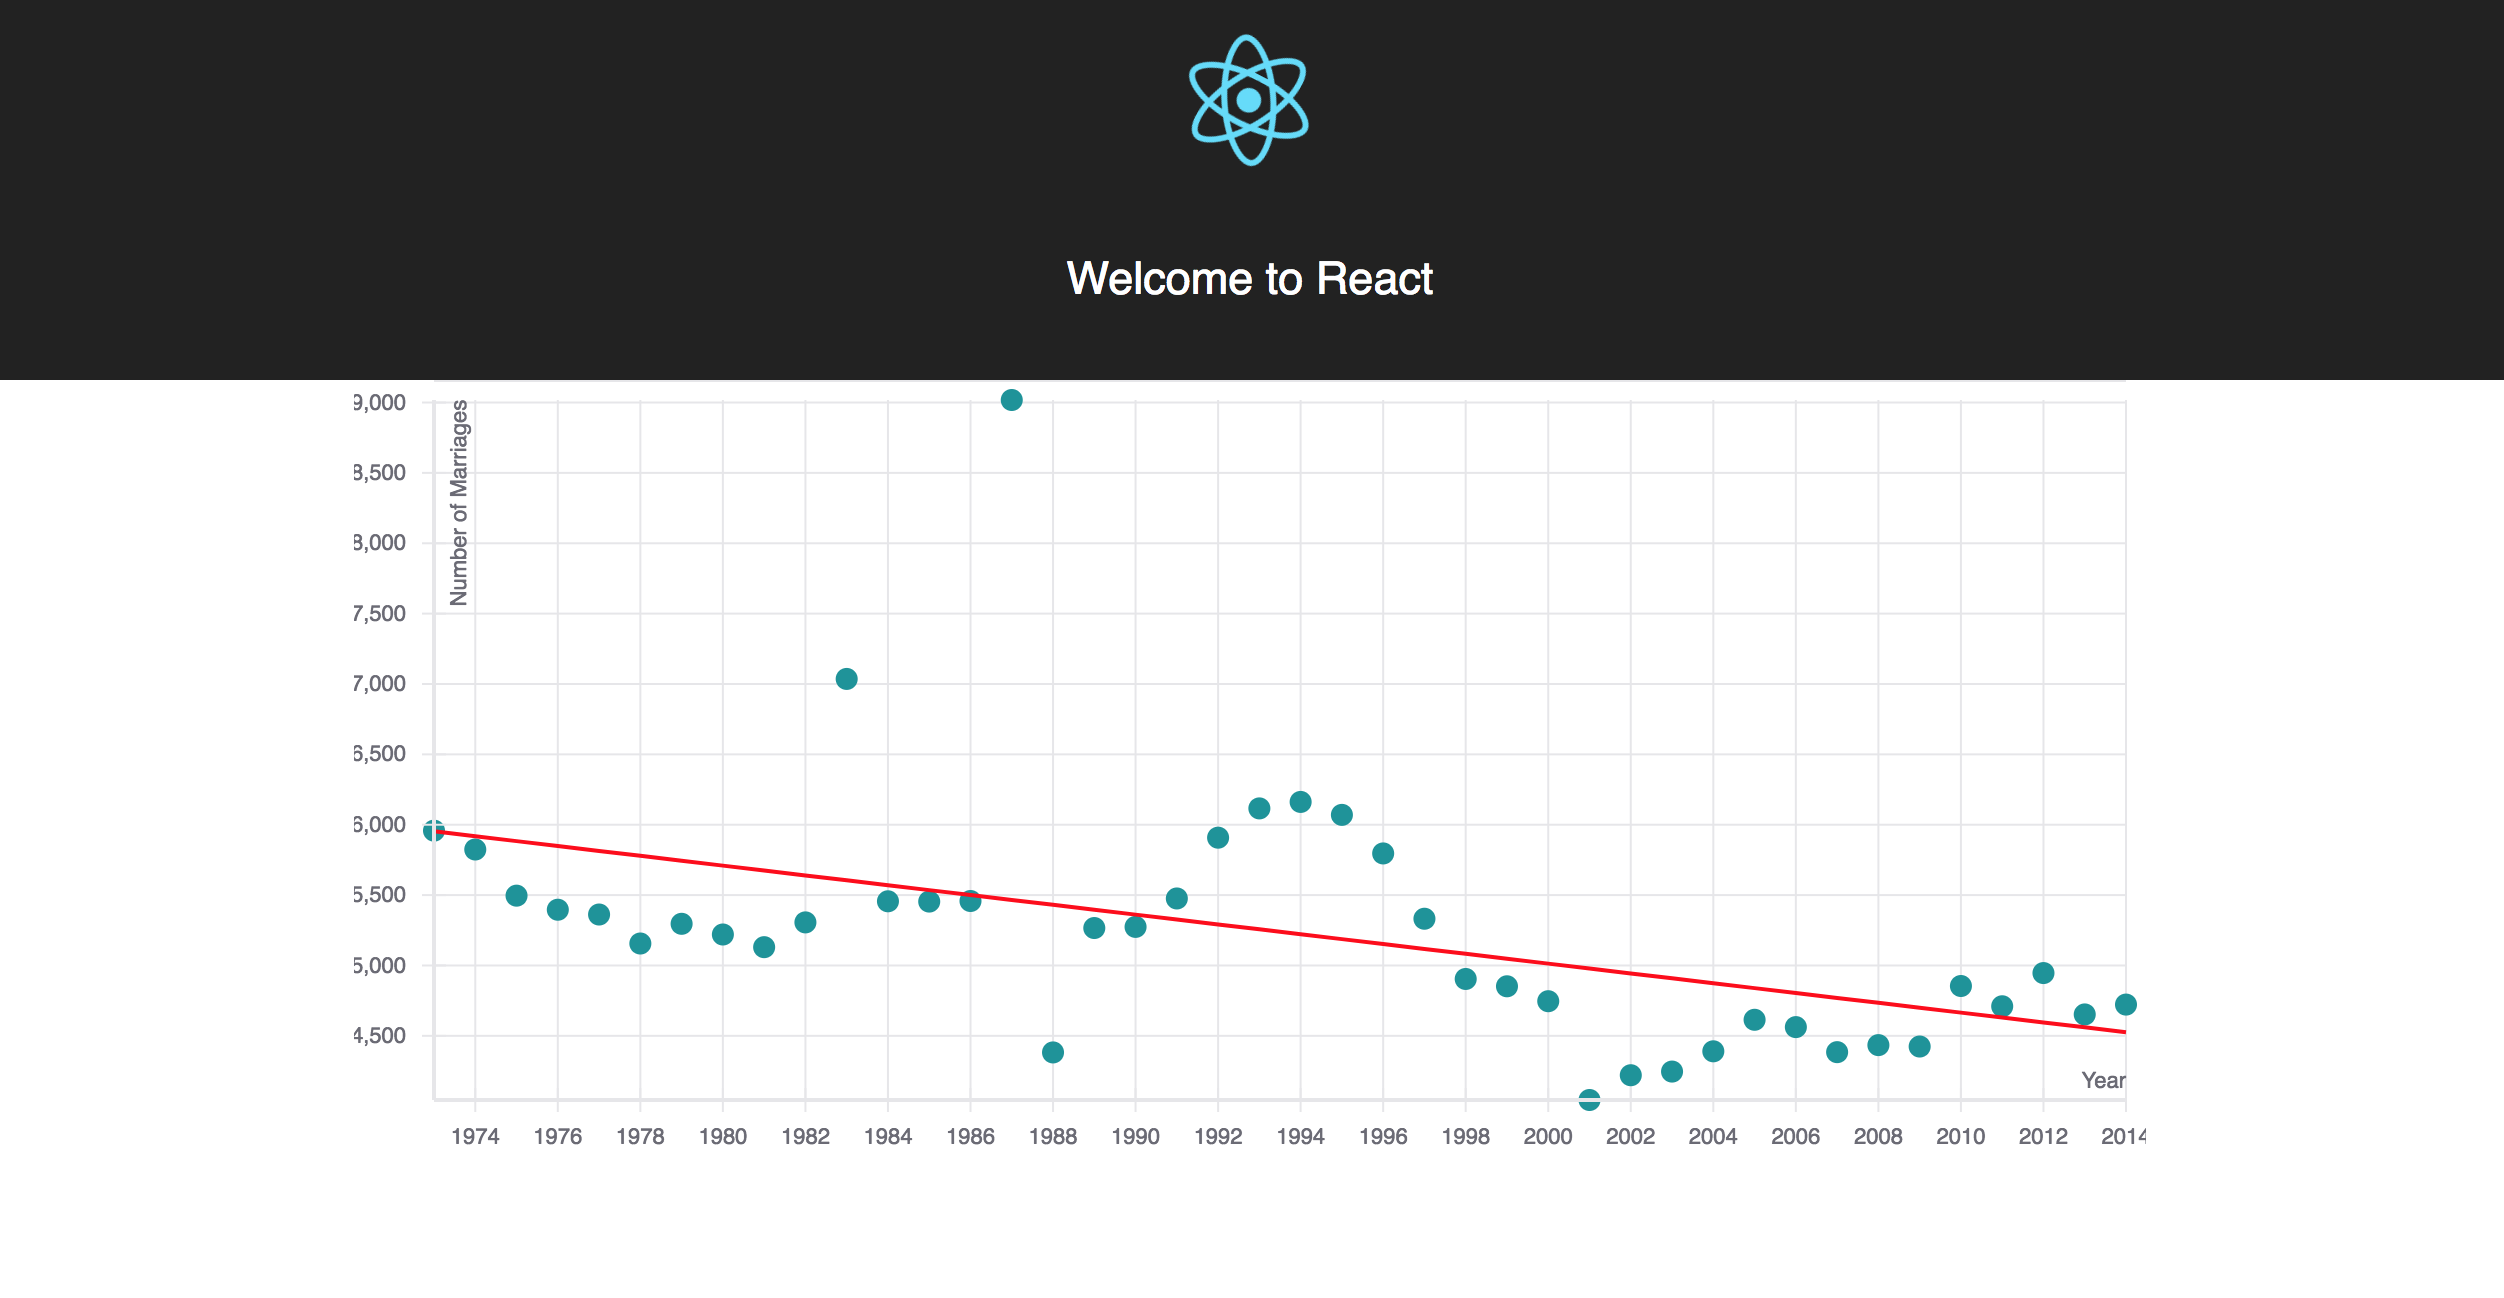
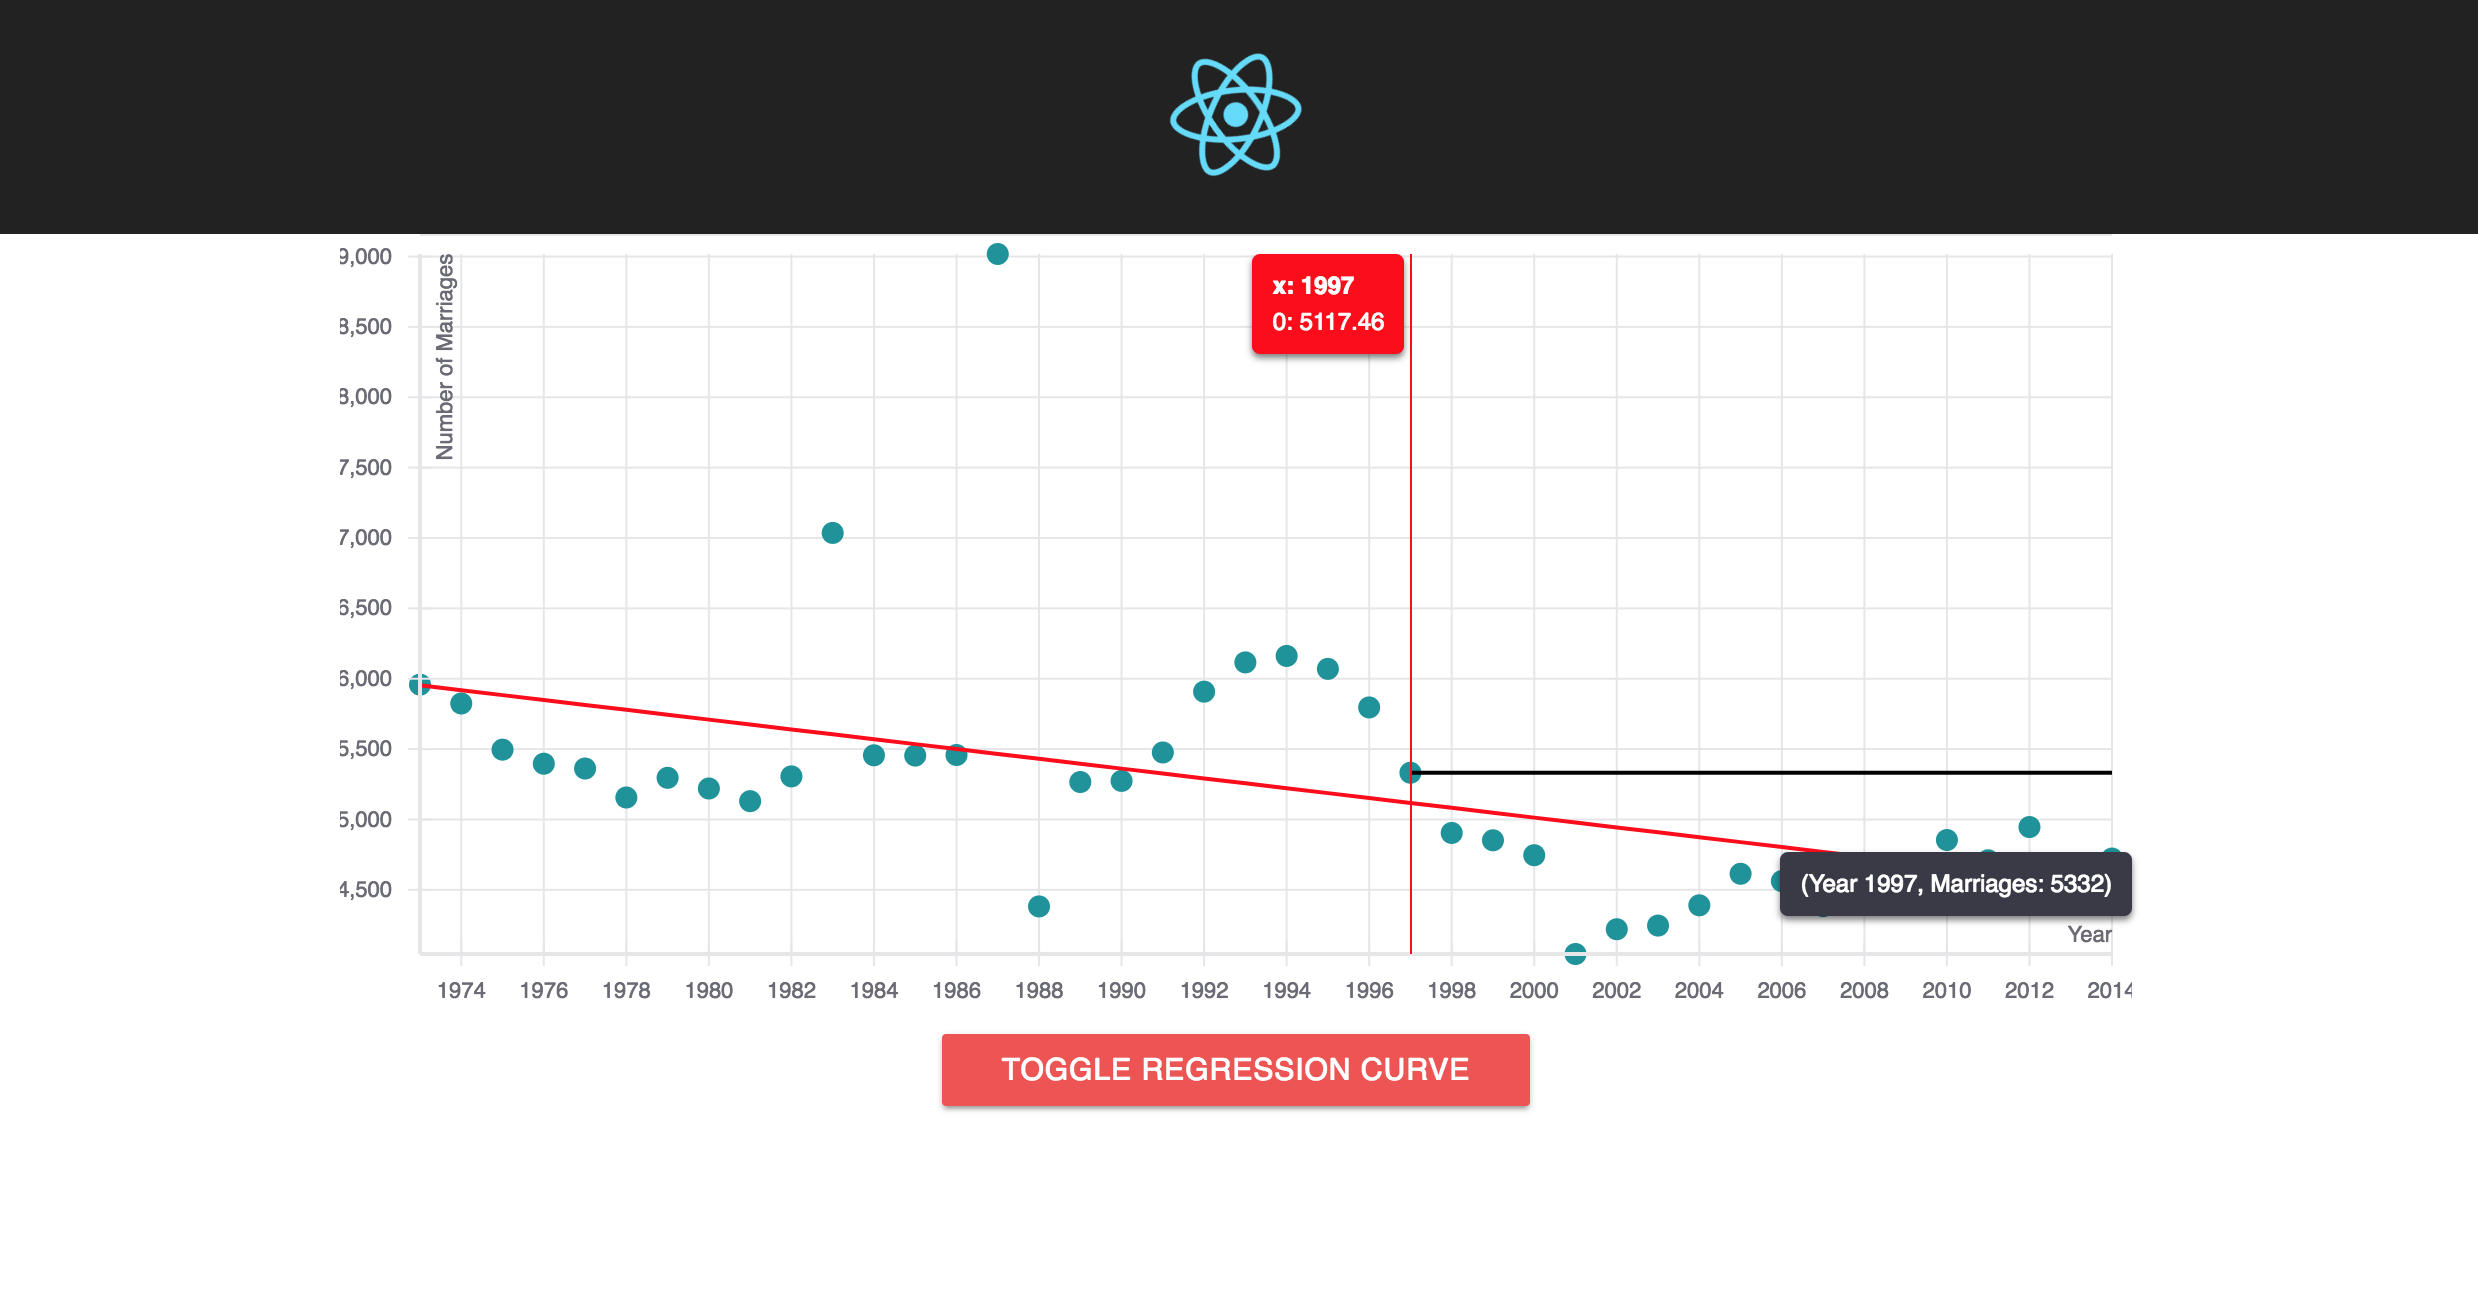
add crosshair for marks and update screenshot

diff --git a/src/components/Plot/Plot.jsx b/src/components/Plot/Plot.jsx
@@ -7,20 +7,36 @@ import {
   VerticalGridLines,
   XAxis,
   YAxis,
-  Crosshair
+  Crosshair,
+  Hint
 } from "react-vis";
 
 import regressionData from "./regression";
 import { formattedData, years } from "./dataPrep";
 import RegressionComponent from "./RegressionComponent";
 
+const XMAX = 2014;
+
+function getAlignStyle(align, x, y) {
+  return {
+    right: 0,
+    top: 50 + y
+  };
+}
+
 class Plot extends React.Component {
   constructor(props) {
     super(props);
     this.state = {
-      crosshairValues: []
+      crosshairValues: [],
+      value: null
     };
     this.renderRegression = this.renderRegression.bind(this);
+    this._rememberValue = this._rememberValue.bind(this);
+  }
+
+  _rememberValue(value) {
+    this.setState({ value });
   }
 
   renderRegression = () => {
@@ -40,6 +56,8 @@ class Plot extends React.Component {
   };
 
   render() {
+    const { value } = this.state;
+
     return (
       <div className="container">
         <FlexibleWidthXYPlot
@@ -48,14 +66,27 @@ class Plot extends React.Component {
         >
           <HorizontalGridLines />
           <VerticalGridLines />
-          <MarkSeries className="mark-series-example" data={formattedData} />
+          <MarkSeries data={formattedData} onNearestX={this._rememberValue} />
+          {value ? (
+            <LineSeries
+              data={[{ x: value.x, y: value.y }, { x: XMAX, y: value.y }]}
+              stroke="black"
+            />
+          ) : null}
+          {value ? (
+            <Hint value={value} getAlignStyle={getAlignStyle}>
+              <div className="rv-hint__content">
+                {`(Year ${value.x}, Marriages: ${value.y})`}
+              </div>
+            </Hint>
+          ) : null}
           {this.renderRegression()}
           <XAxis top={0} hideTicks tickValues={years} title="X" />
           <XAxis title="Year" tickFormat={v => v} />
           <YAxis title="Number of Marriages" />
           <Crosshair
             values={this.state.crosshairValues}
-            style={{line:{backgroundColor: 'red'}}}
+            style={{ line: { backgroundColor: "red" }, box:{backgroundColor: "red" }}}
           />
         </FlexibleWidthXYPlot>
       </div>

diff --git a/src/App.js b/src/App.js
@@ -31,10 +31,10 @@ class App extends Component {
         </header>
         <Plot regression={this.state.regression} />
         <a
-          className="waves-effect waves-light btn"
+          className="waves-effect waves-light btn red lighten-1"
           onClick={this.calcRegression}
         >
-          Add Regression
+          Toggle Regression Curve
         </a>
       </div>
     );
